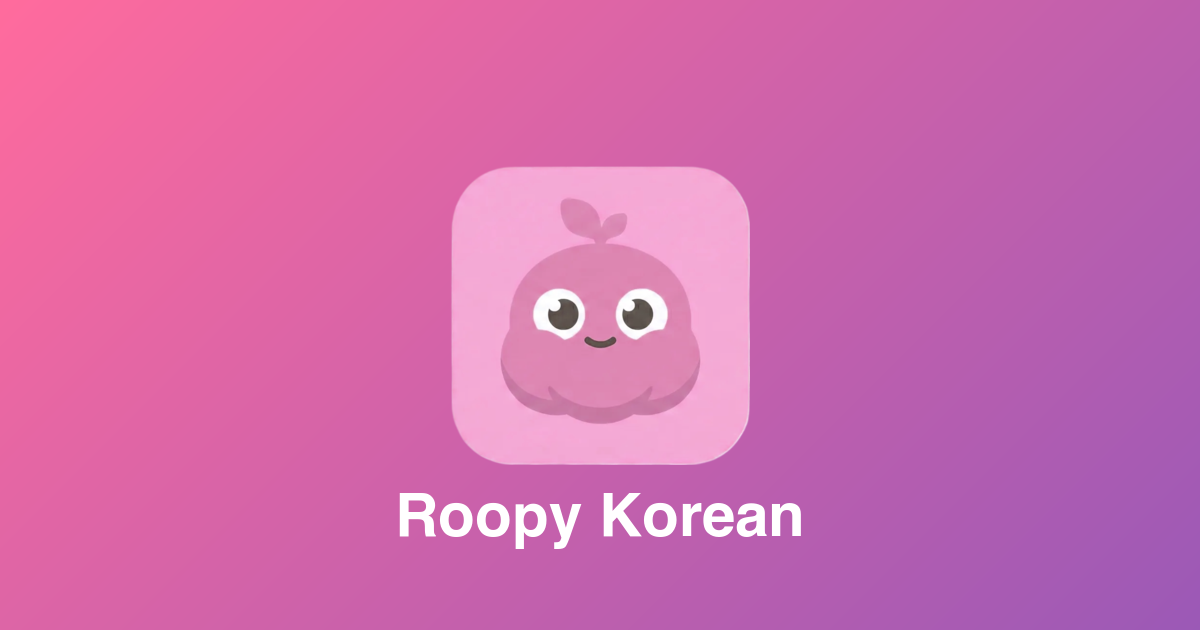
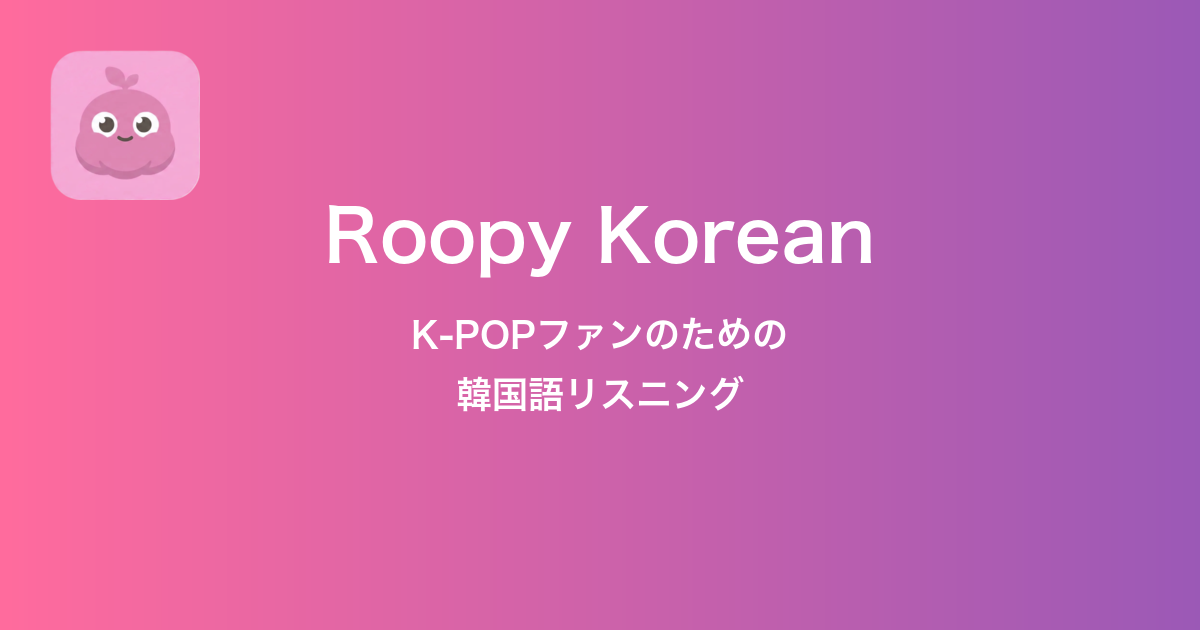
feat: Roopy Korean LP作成
- /lp/korean に韓国語リスニングアプリのLPを追加
- K-POP/K-dramaファン向けのデザイン
- ピンク×パープルのグラデーションテーマ
- 2つの学習モード（リスニング・単文練習）を紹介
- OG画像更新

🤖 Generated with [Claude Code](https://claude.com/claude-code)

diff --git a/app/lp/korean/page.tsx b/app/lp/korean/page.tsx
@@ -1,0 +1,352 @@
+import Link from 'next/link'
+import Image from 'next/image'
+import type { Metadata } from 'next'
+import { Noto_Sans_JP } from 'next/font/google'
+import { Headphones, Play, Volume2, MessageCircle, Heart, Sparkles, Music, Tv, ChevronRight } from 'lucide-react'
+
+const notoSansJP = Noto_Sans_JP({
+  weight: ['400', '700'],
+  subsets: ['latin'],
+  display: 'swap',
+})
+
+export const metadata: Metadata = {
+  title: 'Roopy Korean | K-POPファンのための韓国語リスニング',
+  description: '推しの言葉をもっと理解したい。Roopy Koreanは、K-POPやK-dramaファンのための韓国語リスニングアプリです。完全無料。',
+  openGraph: {
+    title: 'Roopy Korean | K-POPファンのための韓国語リスニング',
+    description: '推しの言葉をもっと理解したい。K-POPやK-dramaファンのための韓国語リスニングアプリ。',
+    type: 'website',
+    images: ['/korean/og-image.png'],
+  },
+}
+
+export default function KoreanLandingPage() {
+  return (
+    <div className={`min-h-screen bg-gradient-to-b from-pink-50 to-white text-gray-800 ${notoSansJP.className}`}>
+      {/* Navigation */}
+      <nav className="bg-white/80 backdrop-blur-sm border-b border-pink-100 sticky top-0 z-50">
+        <div className="max-w-[1000px] mx-auto px-4 py-3 flex items-center justify-between">
+          <Link href="/korean" className="flex items-center gap-2">
+            <Image
+              src="/korean/Roopy-Korean-icon.png"
+              alt="Roopy Korean"
+              width={36}
+              height={36}
+              className="rounded-full"
+            />
+            <span className="font-bold text-lg bg-gradient-to-r from-pink-500 to-purple-500 bg-clip-text text-transparent">
+              Roopy Korean
+            </span>
+          </Link>
+          <Link
+            href="/korean"
+            className="bg-gradient-to-r from-pink-500 to-purple-500 text-white px-5 py-2 rounded-full font-bold text-sm hover:shadow-lg transition-shadow"
+          >
+            今すぐ始める
+          </Link>
+        </div>
+      </nav>
+
+      {/* Hero Section */}
+      <header className="relative overflow-hidden py-16 px-4">
+        {/* Background decoration */}
+        <div className="absolute inset-0 overflow-hidden">
+          <div className="absolute top-20 left-10 w-32 h-32 bg-pink-200/30 rounded-full blur-3xl" />
+          <div className="absolute bottom-20 right-10 w-40 h-40 bg-purple-200/30 rounded-full blur-3xl" />
+        </div>
+
+        <div className="relative max-w-[600px] mx-auto text-center">
+          <div className="mb-6">
+            <Image
+              src="/korean/Roopy-Korean-icon.png"
+              alt="Roopy Korean"
+              width={120}
+              height={120}
+              className="mx-auto drop-shadow-lg"
+              priority
+            />
+          </div>
+
+          <h1 className="text-3xl md:text-4xl font-bold mb-4 leading-tight">
+            <span className="bg-gradient-to-r from-pink-500 to-purple-500 bg-clip-text text-transparent">
+              推しの言葉
+            </span>
+            を<br />
+            もっと理解したい
+          </h1>
+
+          <p className="text-gray-600 mb-8 leading-relaxed">
+            K-POP、K-drama、バラエティ番組...<br />
+            リアルな韓国語を聞いて、楽しく学ぼう
+          </p>
+
+          <Link
+            href="/korean"
+            className="inline-flex items-center gap-2 bg-gradient-to-r from-pink-500 to-purple-500 text-white text-lg font-bold py-4 px-10 rounded-full shadow-lg hover:shadow-xl hover:-translate-y-0.5 transition-all"
+          >
+            <Play className="w-5 h-5" />
+            無料で始める
+          </Link>
+
+          <p className="mt-4 text-sm text-gray-400">
+            登録不要・完全無料
+          </p>
+        </div>
+      </header>
+
+      {/* Target Section */}
+      <section className="py-12 px-4 bg-gradient-to-r from-pink-50 to-purple-50">
+        <div className="max-w-[800px] mx-auto">
+          <h2 className="text-2xl font-bold text-center mb-8">
+            こんな人におすすめ
+          </h2>
+
+          <div className="grid md:grid-cols-3 gap-4">
+            <div className="bg-white rounded-2xl p-6 shadow-sm text-center">
+              <Music className="w-10 h-10 mx-auto mb-3 text-pink-500" />
+              <h3 className="font-bold mb-2">K-POPファン</h3>
+              <p className="text-sm text-gray-600">
+                推しの歌詞やVLiveを<br />
+                字幕なしで理解したい
+              </p>
+            </div>
+
+            <div className="bg-white rounded-2xl p-6 shadow-sm text-center">
+              <Tv className="w-10 h-10 mx-auto mb-3 text-purple-500" />
+              <h3 className="font-bold mb-2">ドラマ好き</h3>
+              <p className="text-sm text-gray-600">
+                韓ドラの台詞を<br />
+                聞き取れるようになりたい
+              </p>
+            </div>
+
+            <div className="bg-white rounded-2xl p-6 shadow-sm text-center">
+              <MessageCircle className="w-10 h-10 mx-auto mb-3 text-pink-400" />
+              <h3 className="font-bold mb-2">旅行したい人</h3>
+              <p className="text-sm text-gray-600">
+                韓国で現地の人と<br />
+                会話してみたい
+              </p>
+            </div>
+          </div>
+        </div>
+      </section>
+
+      {/* Features Section */}
+      <section className="py-16 px-4">
+        <div className="max-w-[800px] mx-auto">
+          <h2 className="text-2xl font-bold text-center mb-4">
+            2つの学習モード
+          </h2>
+          <p className="text-center text-gray-600 mb-10">
+            リスニング力を効率的に鍛えます
+          </p>
+
+          <div className="space-y-6">
+            {/* リスニング */}
+            <div className="bg-white rounded-2xl shadow-lg p-6 md:p-8 border border-pink-100">
+              <div className="flex items-start gap-4">
+                <div className="w-14 h-14 bg-gradient-to-br from-pink-400 to-purple-400 rounded-xl flex items-center justify-center shrink-0">
+                  <Headphones className="w-7 h-7 text-white" />
+                </div>
+                <div className="flex-1">
+                  <div className="flex items-center gap-2 mb-2">
+                    <h3 className="text-xl font-bold">リスニング</h3>
+                    <span className="bg-pink-100 text-pink-600 text-xs font-bold px-2 py-0.5 rounded-full">
+                      メイン
+                    </span>
+                  </div>
+                  <p className="text-gray-600 mb-4">
+                    2〜3行の韓国語を聞いて、内容を理解するクイズ形式。
+                    空港アナウンス、カフェでの注文、友達との会話など、
+                    実践的なシチュエーションで学べます。
+                  </p>
+                  <div className="flex flex-wrap gap-2 text-sm">
+                    <span className="bg-pink-50 text-pink-600 px-3 py-1 rounded-full">3問×10セット</span>
+                    <span className="bg-purple-50 text-purple-600 px-3 py-1 rounded-full">速度調整可能</span>
+                    <span className="bg-pink-50 text-pink-600 px-3 py-1 rounded-full">スクリプト付き</span>
+                  </div>
+                </div>
+              </div>
+            </div>
+
+            {/* 単文聞き取り */}
+            <div className="bg-white rounded-2xl shadow-md p-6 md:p-8 border border-gray-100">
+              <div className="flex items-start gap-4">
+                <div className="w-14 h-14 bg-gradient-to-br from-purple-100 to-pink-100 rounded-xl flex items-center justify-center shrink-0">
+                  <Volume2 className="w-7 h-7 text-purple-500" />
+                </div>
+                <div className="flex-1">
+                  <h3 className="text-xl font-bold mb-2">単文聞き取り練習</h3>
+                  <p className="text-gray-600 mb-4">
+                    1文の韓国語を聞いて、正しい日本語の意味を選ぶシンプルなクイズ。
+                    短いフレーズで語彙力と聞き取り力を同時に鍛えます。
+                  </p>
+                  <div className="flex flex-wrap gap-2 text-sm">
+                    <span className="bg-gray-100 text-gray-600 px-3 py-1 rounded-full">5問ランダム出題</span>
+                    <span className="bg-gray-100 text-gray-600 px-3 py-1 rounded-full">4択形式</span>
+                  </div>
+                </div>
+              </div>
+            </div>
+          </div>
+        </div>
+      </section>
+
+      {/* Why Section */}
+      <section className="py-12 px-4 bg-gradient-to-b from-white to-pink-50">
+        <div className="max-w-[700px] mx-auto text-center">
+          <h2 className="text-2xl font-bold mb-6">
+            なぜリスニングが大切？
+          </h2>
+
+          <div className="bg-white rounded-2xl shadow-lg p-8 mb-6">
+            <p className="text-lg leading-relaxed text-gray-700 mb-6">
+              韓国語は<strong className="text-pink-500">発音変化</strong>が多い言語。<br />
+              文字だけ覚えても、実際の会話では聞き取れないことも。
+            </p>
+            <div className="bg-gradient-to-r from-pink-50 to-purple-50 rounded-xl p-6">
+              <p className="font-bold text-lg">
+                <span className="text-pink-500">耳から覚える</span>ことで、<br />
+                自然な韓国語が身につきます
+              </p>
+            </div>
+          </div>
+        </div>
+      </section>
+
+      {/* Situations Section */}
+      <section className="py-16 px-4">
+        <div className="max-w-[800px] mx-auto">
+          <h2 className="text-2xl font-bold text-center mb-4">
+            様々なシチュエーション
+          </h2>
+          <p className="text-center text-gray-600 mb-10">
+            実生活で使える場面を厳選
+          </p>
+
+          <div className="grid grid-cols-2 md:grid-cols-5 gap-3">
+            {[
+              { emoji: '✈', label: '空港' },
+              { emoji: '🚃', label: '電車' },
+              { emoji: '☕', label: 'カフェ' },
+              { emoji: '👫', label: '友達との会話' },
+              { emoji: '🌤', label: '天気予報' },
+              { emoji: '🛍', label: 'お店' },
+              { emoji: '📞', label: '電話予約' },
+              { emoji: '🗺', label: '道案内' },
+              { emoji: '🏫', label: '学校' },
+              { emoji: '🍜', label: 'レストラン' },
+            ].map((item) => (
+              <div
+                key={item.label}
+                className="bg-white rounded-xl p-4 text-center shadow-sm border border-pink-50 hover:border-pink-200 transition-colors"
+              >
+                <span className="text-2xl mb-2 block">{item.emoji}</span>
+                <span className="text-sm font-medium text-gray-700">{item.label}</span>
+              </div>
+            ))}
+          </div>
+        </div>
+      </section>
+
+      {/* CTA Section */}
+      <section className="py-16 px-4 bg-gradient-to-br from-pink-500 to-purple-500 text-white">
+        <div className="max-w-[600px] mx-auto text-center">
+          <Heart className="w-12 h-12 mx-auto mb-4 opacity-80" />
+          <h2 className="text-2xl md:text-3xl font-bold mb-4">
+            今日から韓国語リスニング<br />
+            始めてみませんか？
+          </h2>
+          <p className="mb-8 opacity-90">
+            登録不要・完全無料で、すぐに始められます
+          </p>
+
+          <Link
+            href="/korean"
+            className="inline-flex items-center gap-2 bg-white text-pink-500 text-lg font-bold py-4 px-10 rounded-full shadow-lg hover:shadow-xl hover:-translate-y-0.5 transition-all"
+          >
+            学習をスタート
+            <ChevronRight className="w-5 h-5" />
+          </Link>
+        </div>
+      </section>
+
+      {/* FAQ Section */}
+      <section className="py-16 px-4 bg-white">
+        <div className="max-w-[700px] mx-auto">
+          <h2 className="text-2xl font-bold text-center mb-10">
+            よくある質問
+          </h2>
+
+          <div className="space-y-4">
+            <div className="bg-pink-50 rounded-xl p-6">
+              <h3 className="font-bold mb-2">Q. 本当に無料ですか？</h3>
+              <p className="text-gray-600">
+                はい、すべての機能が完全無料です。広告もありません。
+              </p>
+            </div>
+
+            <div className="bg-purple-50 rounded-xl p-6">
+              <h3 className="font-bold mb-2">Q. 会員登録は必要ですか？</h3>
+              <p className="text-gray-600">
+                登録不要ですぐに始められます。アプリのダウンロードも不要です。
+              </p>
+            </div>
+
+            <div className="bg-pink-50 rounded-xl p-6">
+              <h3 className="font-bold mb-2">Q. 初心者でも大丈夫ですか？</h3>
+              <p className="text-gray-600">
+                はい！音声の速度を0.8倍に落としたり、スクリプトを確認しながら学習できます。
+              </p>
+            </div>
+
+            <div className="bg-purple-50 rounded-xl p-6">
+              <h3 className="font-bold mb-2">Q. スマホで使えますか？</h3>
+              <p className="text-gray-600">
+                スマホ、タブレット、PCすべてで利用可能です。ブラウザからアクセスするだけでOK。
+              </p>
+            </div>
+          </div>
+        </div>
+      </section>
+
+      {/* Footer */}
+      <footer className="bg-gray-50 border-t border-gray-100 py-10 px-4">
+        <div className="max-w-[800px] mx-auto">
+          <div className="flex flex-col md:flex-row items-center justify-between gap-6">
+            <div className="flex items-center gap-2">
+              <Image
+                src="/korean/Roopy-Korean-icon.png"
+                alt="Roopy Korean"
+                width={32}
+                height={32}
+                className="rounded-full"
+              />
+              <span className="font-bold bg-gradient-to-r from-pink-500 to-purple-500 bg-clip-text text-transparent">
+                Roopy Korean
+              </span>
+            </div>
+
+            <div className="flex items-center gap-6 text-sm text-gray-500">
+              <Link href="/korean" className="hover:text-pink-500 transition-colors">
+                ホーム
+              </Link>
+              <Link href="/korean/listening" className="hover:text-pink-500 transition-colors">
+                リスニング
+              </Link>
+              <Link href="/korean/quiz" className="hover:text-pink-500 transition-colors">
+                単文練習
+              </Link>
+            </div>
+          </div>
+
+          <div className="mt-8 pt-6 border-t border-gray-200 text-center text-sm text-gray-400">
+            <p>&copy; 2025 Edore. All rights reserved.</p>
+          </div>
+        </div>
+      </footer>
+    </div>
+  )
+}
